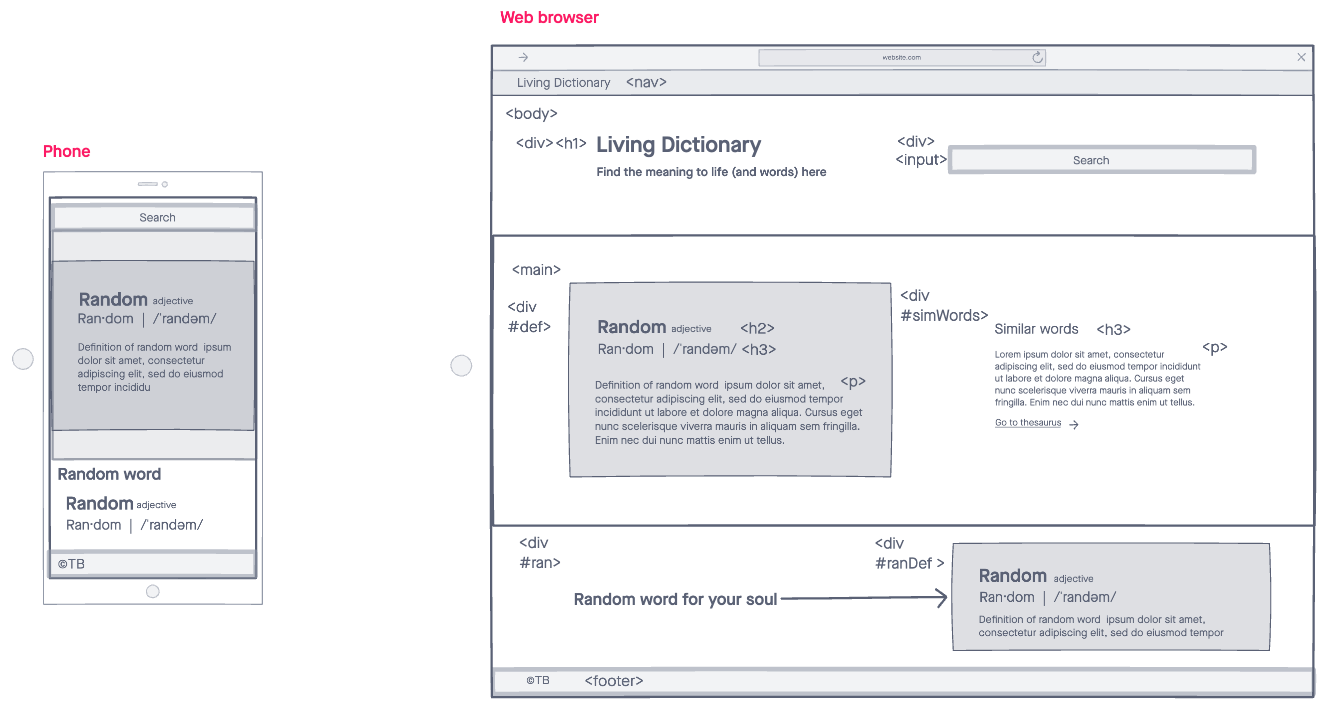
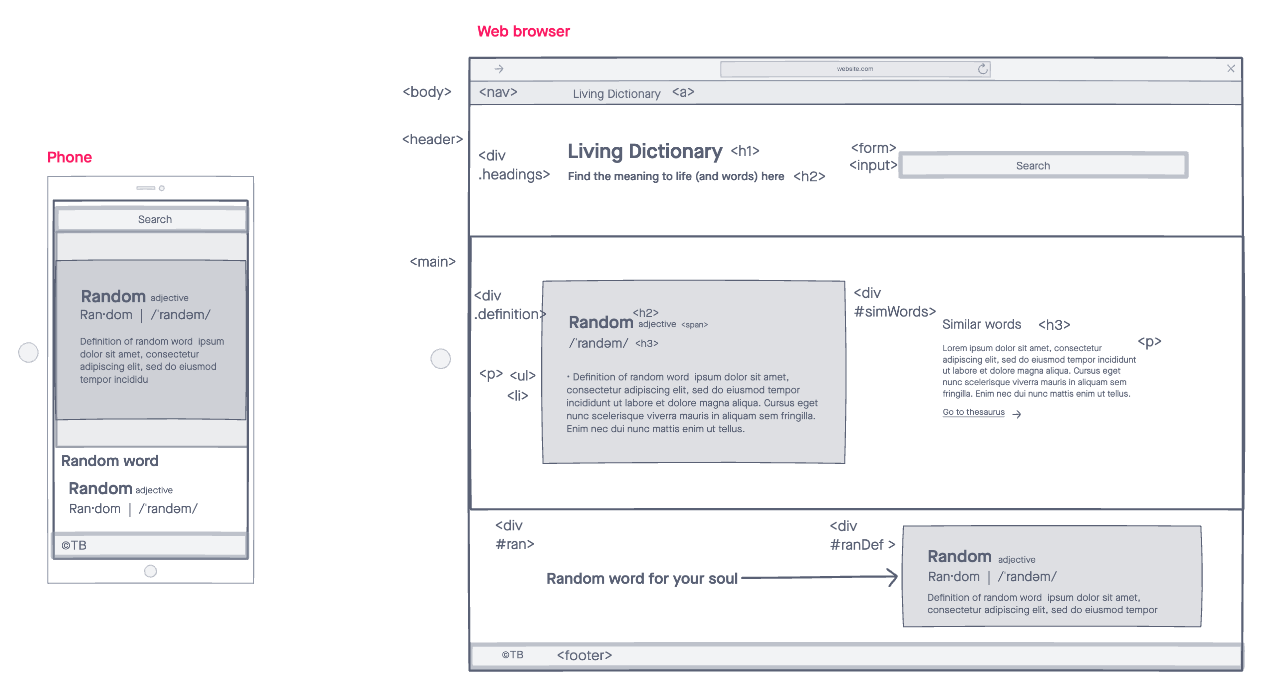
begin updating css styles

diff --git a/js/script.js b/js/script.js
@@ -6,7 +6,7 @@ let wordData;
 $main = $("main")
 $word = $("<h2>"); // sets variable to h2 element
 $pronunciation = $("<h3>") // sets variable to h3 element
-$partOfSpeech = $("<h4>") // sets variable to h4 element
+$partOfSpeech = $("<span>") // sets variable to span element
 $defsList = $("<ul>") // sets variable to ul element
 $definition = $("<div>") // sets variable to div element
 
@@ -20,16 +20,16 @@ function render() {
     $main.append($definition); // appends definition div to main
 
     $word.addClass("word"); // adds class to word h2
-    $word.text(wordData[0].hwi.hw); // set text of $word h2 to object item
+    $word.text(`${wordData[0].hwi.hw}  `); // set text of $word h2 to object item
     $definition.append($word); // append word to $definition div
 
     $pronunciation.addClass("pronunciation"); // adds class to pronunciation h3
     $pronunciation.text(wordData[0].hwi.prs[0].mw); // set text of pronunciation to object item
     $definition.append($pronunciation) // append to $definition div
 
-    $partOfSpeech.addClass("partOfSpeech"); // adds class to partOfSpeech h4
+    $partOfSpeech.addClass("partOfSpeech"); // adds class to partOfSpeech span
     $partOfSpeech.text(wordData[0].fl); // set text to object item
-    $definition.append($partOfSpeech); // append to definition div
+    $word.append($partOfSpeech); // append to word h2
 
     $definition.append($defsList) // appends defsList (unordered list) to definition div
 

diff --git a/index.html b/index.html
@@ -13,10 +13,15 @@
 </head>
 
 <body>
+    <nav>
+        <h5><a href target="_blank">About</a></h5>
+        <h5><a href target="_blank">Thesaurus</a></h5>
+        <h5><a href target="_blank">The Meaning of Life</a></h5>
+    </nav>
     <header>
         <div class="headings">
             <h1>Living Dictionary</h1>
-            <h2>Find the meaning to life (or just words) here.</h2>
+            <h2>Find the meaning of life (and words) here.</h2>
         </div>
 
         <form>
@@ -27,9 +32,12 @@
     </header>
     <main>
         <div class="definition">
-            <h2 class="word">living</h2>
+            
+            <h2 class="word">living
+                <span class="partOfSpeech"><em>adjective</em></span>
+            </h2>
+                
             <h3 class="pronunciation">[liv-ing]</h3>
-            <h4 class="partOfSpeech"><em>adjective</em></h4>
             <p>
                 <ul id="defList">
                     <li id="defItemOne">active or thriving;</li>

diff --git a/css/style.css b/css/style.css
@@ -2,3 +2,11 @@
     box-sizing: border-box;
     margin: 0;
 }
+
+body {
+    display: grid;
+    height: 100vh;
+    margin: auto;
+    font-family:'Lucida Sans', 'Lucida Sans Regular', 'Lucida Grande', 'Lucida Sans Unicode', Geneva, Verdana, sans-serif;
+    
+}

diff --git a/README.md b/README.md
@@ -1,6 +1,6 @@
 # Living Dictionary
 
-A simple dictionary web app that allows users to search by keyword
+A simple dictionary web application that allows users to search for teh definition of a word of their choice.
 
 ## Technologies
 - HTML5
